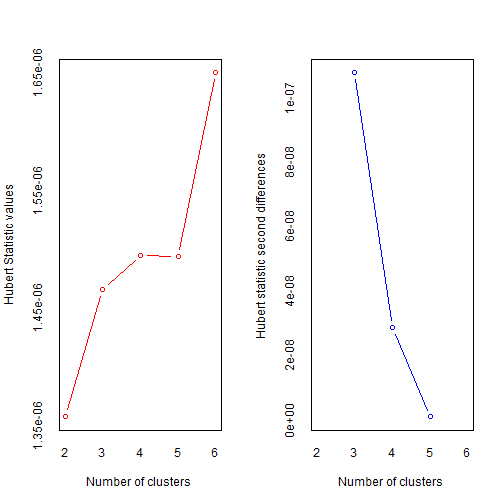
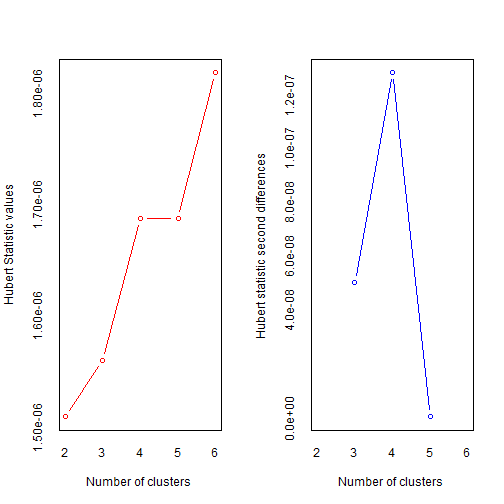
test yvescr.github.io instead of data-laborer.eu due to identification issue

diff --git a/_posts/2015-08-18-Number_of_Cluster.md b/_posts/2015-08-18-Number_of_Cluster.md
@@ -31,7 +31,7 @@ ggplot(data = mat, aes(x = x, y = y)) +
     geom_point( size = 4) 
 {% endhighlight %}
 
-![plot of chunk unnamed-chunk-1](http://data-laborer.eu/assets/images/figures/source/2015-08-18-Number_of_Cluster/unnamed-chunk-1-1.png)
+![plot of chunk unnamed-chunk-1](http://yvescr.github.io/assets/images/figures/source/2015-08-18-Number_of_Cluster/unnamed-chunk-1-1.png)
 
 
 
@@ -69,7 +69,7 @@ ggplot(data = wss2, aes(x = x, y = wss))+
   ggtitle("Elbow plot")
 {% endhighlight %}
 
-![plot of chunk unnamed-chunk-4](http://data-laborer.eu/assets/images/figures/source/2015-08-18-Number_of_Cluster/unnamed-chunk-4-1.png)
+![plot of chunk unnamed-chunk-4](http://yvescr.github.io/assets/images/figures/source/2015-08-18-Number_of_Cluster/unnamed-chunk-4-1.png)
 
 
 
@@ -95,21 +95,18 @@ res$Best.nc
 
 
 {% highlight text %}
-##                     KL       CH Hartigan     CCC   Scott     Marriot
-## Number_clusters 6.0000   3.0000   3.0000  4.0000  3.0000           3
-## Value_Index     8.6036 203.1305  47.3718 11.3789 60.6216 17931349382
-##                    TrCovW   TraceW Friedman   Rubin Cindex     DB
-## Number_clusters         5      3.0   6.0000  3.0000 4.0000 2.0000
-## Value_Index     487603408 104947.3  55.2264 -8.2026 0.3001 0.5097
+##                      KL       CH Hartigan     CCC   Scott     Marriot
+## Number_clusters  4.0000   4.0000   3.0000  4.0000  4.0000           4
+## Value_Index     14.2718 177.7792  70.9745 12.8076 63.3226 21533263829
+##                    TrCovW   TraceW Friedman    Rubin Cindex     DB
+## Number_clusters         3      4.0   4.0000   4.0000 2.0000 2.0000
+## Value_Index     865542437 100208.3  29.1325 -15.5892 0.3378 0.4902
 ##                 Silhouette   Duda PseudoT2  Beale Ratkowsky     Ball
-## Number_clusters     2.0000 2.0000   2.0000 2.0000    3.0000     3.00
-## Value_Index         0.6769 0.3023  66.9214 2.2307    0.5298 79448.65
-##                 PtBiserial   Frey McClain   Dunn Hubert SDindex Dindex
-## Number_clusters     2.0000 3.0000  2.0000 2.0000      0  2.0000      0
-## Value_Index         0.8549 5.5349  0.3181 0.4451      0  0.0163      0
-##                   SDbw
-## Number_clusters 6.0000
-## Value_Index     0.1088
+## Number_clusters     2.0000 2.0000   2.0000 2.0000    2.0000     4.00
+## Value_Index         0.6801 0.5541  15.2897 0.7645    0.5266 43015.13
+##                 PtBiserial Frey McClain   Dunn Hubert SDindex Dindex  SDbw
+## Number_clusters     2.0000    1  2.0000 2.0000      0  2.0000      0 2.000
+## Value_Index         0.8523   NA  0.3164 0.4025      0  0.0156      0 0.173
 {% endhighlight %}
 
 Most common value:(Without 0)
@@ -123,7 +120,7 @@ summary(res$Best.nc[1,][res$Best.nc[1,]!= 0])
 
 {% highlight text %}
 ##    Min. 1st Qu.  Median    Mean 3rd Qu.    Max. 
-##   2.000   2.000   3.000   3.167   3.250   6.000
+##   1.000   2.000   2.000   2.792   4.000   4.000
 {% endhighlight %}
 
 In the end, the median of all these methods is choosed. In this case, 2.
@@ -140,7 +137,7 @@ ggplot(data = mat, aes(x = x, y = y, colour = factor(res))) +
     geom_point( size = 4)
 {% endhighlight %}
 
-![plot of chunk unnamed-chunk-10](http://data-laborer.eu/assets/images/figures/source/2015-08-18-Number_of_Cluster/unnamed-chunk-10-1.png)
+![plot of chunk unnamed-chunk-10](http://yvescr.github.io/assets/images/figures/source/2015-08-18-Number_of_Cluster/unnamed-chunk-10-1.png)
 
 
 

diff --git a/_posts/2016-02-13-Unicycle_comparison.md b/_posts/2016-02-13-Unicycle_comparison.md
@@ -25,7 +25,7 @@ To get a first insight of what could be said on the internal properties of this 
 
 
 
-![plot of chunk unnamed-chunk-4](http://data-laborer.eu/assets/images/figures/source/2016-02-13-Unicycle_comparison/unnamed-chunk-4-1.png)
+![plot of chunk unnamed-chunk-4](http://yvescr.github.io/assets/images/figures/source/2016-02-13-Unicycle_comparison/unnamed-chunk-4-1.png)
 
 The first dimension separate the unicycles with high values of nearly all the variables from the unicycle with low values.
 
@@ -38,7 +38,7 @@ Now that we know how the PCA separate the unicycle, let's have a look at the bra
 plot(res.pca, choix = "ind", habillage = 8, col.hab = 8, label =  "quali", invisible = "ind")
 {% endhighlight %}
 
-![plot of chunk unnamed-chunk-5](http://data-laborer.eu/assets/images/figures/source/2016-02-13-Unicycle_comparison/unnamed-chunk-5-1.png)
+![plot of chunk unnamed-chunk-5](http://yvescr.github.io/assets/images/figures/source/2016-02-13-Unicycle_comparison/unnamed-chunk-5-1.png)
 
 As we could see, we could find a brand for every need.
 
@@ -91,7 +91,7 @@ Autonomy and speed, both  related to the battery are significative variables.
 plot(res.lm, which = c(1:4))
 {% endhighlight %}
 
-![plot of chunk unnamed-chunk-7](http://data-laborer.eu/assets/images/figures/source/2016-02-13-Unicycle_comparison/unnamed-chunk-7-1.png)![plot of chunk unnamed-chunk-7](http://data-laborer.eu/assets/images/figures/source/2016-02-13-Unicycle_comparison/unnamed-chunk-7-2.png)![plot of chunk unnamed-chunk-7](http://data-laborer.eu/assets/images/figures/source/2016-02-13-Unicycle_comparison/unnamed-chunk-7-3.png)![plot of chunk unnamed-chunk-7](http://data-laborer.eu/assets/images/figures/source/2016-02-13-Unicycle_comparison/unnamed-chunk-7-4.png)
+![plot of chunk unnamed-chunk-7](http://yvescr.github.io/assets/images/figures/source/2016-02-13-Unicycle_comparison/unnamed-chunk-7-1.png)![plot of chunk unnamed-chunk-7](http://yvescr.github.io/assets/images/figures/source/2016-02-13-Unicycle_comparison/unnamed-chunk-7-2.png)![plot of chunk unnamed-chunk-7](http://yvescr.github.io/assets/images/figures/source/2016-02-13-Unicycle_comparison/unnamed-chunk-7-3.png)![plot of chunk unnamed-chunk-7](http://yvescr.github.io/assets/images/figures/source/2016-02-13-Unicycle_comparison/unnamed-chunk-7-4.png)
 
 Two outliers appear, here, rows 45 and 27.
 

diff --git a/_posts/2015-07-16-Voronoi_station.md b/_posts/2015-07-16-Voronoi_station.md
@@ -95,7 +95,7 @@ plot.no.map.voronoi <- zones.london +
 plot.no.map.voronoi
 {% endhighlight %}
 
-![plot of chunk unnamed-chunk-3](http://data-laborer.eu/assets/images/figures/source/2015-07-16-Voronoi_station/unnamed-chunk-3-1.png)
+![plot of chunk unnamed-chunk-3](http://yvescr.github.io/assets/images/figures/source/2015-07-16-Voronoi_station/unnamed-chunk-3-1.png)
 
 Now, we have the constraint and the voronoi diagram on all the subways station of the zone 1.
 
@@ -150,7 +150,7 @@ zones.london.vor <- zones.london +
 zones.london.vor
 {% endhighlight %}
 
-![plot of chunk unnamed-chunk-4](http://data-laborer.eu/assets/images/figures/source/2015-07-16-Voronoi_station/unnamed-chunk-4-1.png)
+![plot of chunk unnamed-chunk-4](http://yvescr.github.io/assets/images/figures/source/2015-07-16-Voronoi_station/unnamed-chunk-4-1.png)
 
 <h3>  Finding the furthest point from the subway </h3>
 
@@ -179,7 +179,7 @@ zones.london.point <- zones.london.vor +
 zones.london.point
 {% endhighlight %}
 
-![plot of chunk unnamed-chunk-5](http://data-laborer.eu/assets/images/figures/source/2015-07-16-Voronoi_station/unnamed-chunk-5-1.png)
+![plot of chunk unnamed-chunk-5](http://yvescr.github.io/assets/images/figures/source/2015-07-16-Voronoi_station/unnamed-chunk-5-1.png)
 
 In the end, it appears that the furthest point from the subway in London is near the Albert memorial. If you already find yourself hanging there and thinking that the next subway station was quite far, be rassured, it's definitely normal. :)
 

diff --git a/_posts/2015-12-28-MapUKpartII.md b/_posts/2015-12-28-MapUKpartII.md
@@ -42,7 +42,7 @@ ggmap(map)  +
   theme_map_uk
 {% endhighlight %}
 
-![plot of chunk unnamed-chunk-2](http://data-laborer.eu/assets/images/figures/source/2015-12-28-MapUKpartII/unnamed-chunk-2-1.png)
+![plot of chunk unnamed-chunk-2](http://yvescr.github.io/assets/images/figures/source/2015-12-28-MapUKpartII/unnamed-chunk-2-1.png)
 
 A bigger one (45 Mb) could be found with the code to produce it in my github account, [here](https://github.com/YvesCR/blog/blob/gh-pages/image/Big_UK_Density_cluster_Plot.png).
 
@@ -93,7 +93,7 @@ ggmap(map) +
       , panel.margin = unit(c(0, 0, 0, 0), "mm"))
 {% endhighlight %}
 
-![plot of chunk unnamed-chunk-5](http://data-laborer.eu/assets/images/figures/source/2015-12-28-MapUKpartII/unnamed-chunk-5-1.png)
+![plot of chunk unnamed-chunk-5](http://yvescr.github.io/assets/images/figures/source/2015-12-28-MapUKpartII/unnamed-chunk-5-1.png)
 
 With a zoom on Greater London:
 
@@ -107,7 +107,7 @@ ggmap(map2)  +
   theme_map_uk
 {% endhighlight %}
 
-![plot of chunk unnamed-chunk-6](http://data-laborer.eu/assets/images/figures/source/2015-12-28-MapUKpartII/unnamed-chunk-6-1.png)
+![plot of chunk unnamed-chunk-6](http://yvescr.github.io/assets/images/figures/source/2015-12-28-MapUKpartII/unnamed-chunk-6-1.png)
 
 We could clearly sees that in central London, the numbers are oddly low, then suddenly very high when we go further and it decrease with the distance.
 

diff --git a/_posts/2016-11-27-embedocputest.md b/_posts/2016-11-27-embedocputest.md
@@ -57,8 +57,8 @@ $(function(){
 
 <div id="plottest" style="height: 270px"> </div>
 
-## Dynamic plot
 
+## Dynamic plot
 
 With a bit of js, we can easily complexify the process to make it reactive:
 
@@ -136,6 +136,6 @@ You can enter any integer between 1 and 544:
 
 <!--html_preserve--><input type="integer" class="form-control" id="myid" value="1" style="width: 90%;"/><!--/html_preserve--><!--html_preserve--><button type="submit" id="idsubmit" class="btn btn-default">Update dashboard!</button><!--/html_preserve-->
 
-<div id="plotdiv" style="height: 270px"></div>
+<!--html_preserve--><div id="plotdiv" style="height: 270px"></div><!--/html_preserve-->
 
 The same can be done to create dynamic json or any htmlwidget output.

diff --git a/_posts/2015-07-15-Mail_to_senateur.md b/_posts/2015-07-15-Mail_to_senateur.md
@@ -143,6 +143,6 @@ ggplot(senateur.infos, aes(x = group, fill= sexe)) + geom_bar() +
         , axis.title = element_text(size = 15, colour = "darkcyan", face = "bold"))
 {% endhighlight %}
 
-![plot of chunk unnamed-chunk-5](http://data-laborer.eu/assets/images/figures/source/2015-07-15-Mail_to_senateur/unnamed-chunk-5-1.png)
+![plot of chunk unnamed-chunk-5](http://yvescr.github.io/assets/images/figures/source/2015-07-15-Mail_to_senateur/unnamed-chunk-5-1.png)
 
 Only the CRC (communists) and the ecologists have a strict parity.

diff --git a/_posts/2015-08-28-Tips and tricks.md b/_posts/2015-08-28-Tips and tricks.md
@@ -179,7 +179,7 @@ p2 <- ggplot(aes(x = carat, y = price, colour = clarity), data = diamonds.dt) +
 grid.arrange(p1, p2, nrow = 1, ncol = 2)
 {% endhighlight %}
 
-![plot of chunk unnamed-chunk-3](http://data-laborer.eu/assets/images/figures/source/2015-08-28-Tips and tricks/unnamed-chunk-3-1.png)
+![plot of chunk unnamed-chunk-3](http://yvescr.github.io/assets/images/figures/source/2015-08-28-Tips and tricks/unnamed-chunk-3-1.png)
 
 
 
